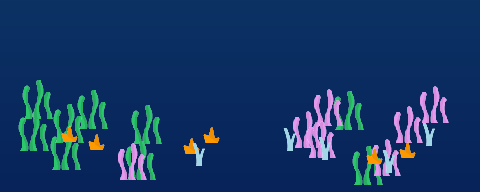
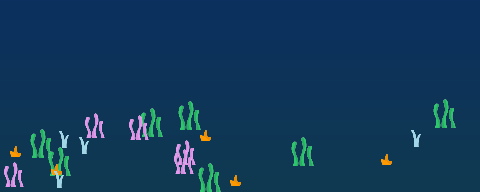
fixed code

diff --git a/src/entities/Boar.js b/src/entities/Boar.js
@@ -36,8 +36,8 @@ export class BoarController {
 
     // tuning defaults (match monolith)
     const b = this.tuning.boar || {};
-    this.W = b.w ?? 36;
-    this.H = b.h ?? 24;
+    this.W = b.w ?? 18;
+    this.H = b.h ?? 12;
     this.SPEED = b.speed ?? 0.6;
     this.HP = b.hp ?? 3;
 
@@ -48,10 +48,10 @@ export class BoarController {
 
     this.TURN_COOLDOWN = b.turnCooldown ?? 12;
 
-    this.PROBE_FORWARD = b.probeForward ?? 20;
-    this.PROBE_FRONT_Y = b.probeFrontY ?? 20;
+    this.PROBE_FORWARD = b.probeForward ?? 10;
+    this.PROBE_FRONT_Y = b.probeFrontY ?? 10;
     this.PROBE_HEAD_Y = b.probeHeadY ?? 0;
-    this.PROBE_SIZE = b.probeSize ?? 8;
+    this.PROBE_SIZE = b.probeSize ?? 4;
   }
 
   /**

diff --git a/src/world/TIleBuilder.js b/src/world/TIleBuilder.js
@@ -55,11 +55,11 @@ export function buildTilesAndGroups(level) {
   level.leaf = new Group();
   level.leaf.physics = "static";
   level.leaf.spriteSheet = level.assets.leafImg;
-  level.leaf.addAnis({ idle: { w: 64, h: 64, row: 0, frames: 5 } });
-  level.leaf.w = 20;
-  level.leaf.h = 20;
-  level.leaf.anis.offset.x = 2;
-  level.leaf.anis.offset.y = -4;
+  level.leaf.addAnis({ idle: { w: 32, h: 32, row: 0, frames: 5 } });
+  level.leaf.w = 10;
+  level.leaf.h = 10;
+  level.leaf.anis.offset.x = 0;
+  level.leaf.anis.offset.y = 0;
   level.leaf.tile = "x";
 
   // --- fire group (spawn from 'f') ---

diff --git a/src/entities/Leaf.js b/src/entities/Leaf.js
@@ -69,10 +69,10 @@ export class LeafController {
     g.spriteSheet = assets.leafImg;
 
     // If you later move this into tuning.json, replace these literals.
-    g.addAnis({ idle: { w: 64, h: 64, row: 0, frames: 5 } });
+    g.addAnis({ idle: { w: 32, h: 32, row: 0, frames: 5 } });
 
-    g.w = 20;
-    g.h = 20;
+    g.w = 10;
+    g.h = 10;
     g.anis.offset.x = 0;
     g.anis.offset.y = 0;
 
